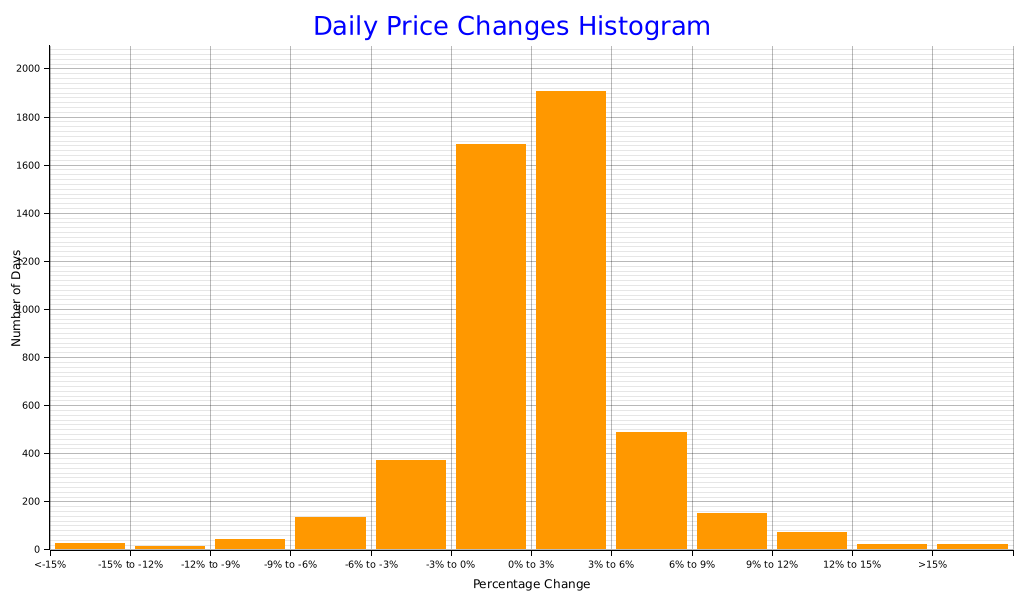
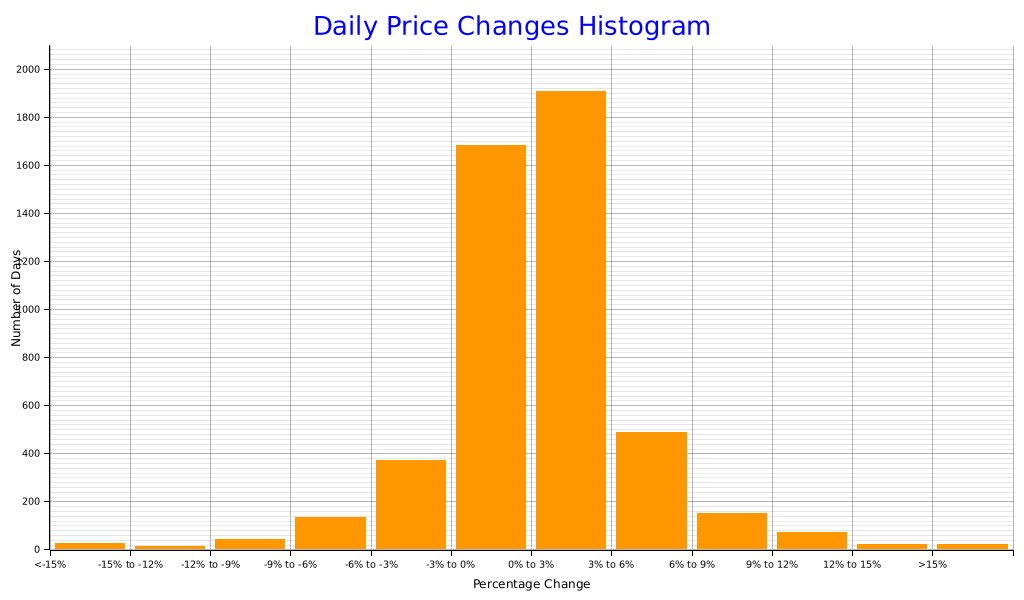
deploy: 32c38bfc33973f71076a7465fb8cd65e6d188ef2

diff --git a/index.html b/index.html
@@ -168,11 +168,11 @@
         </tr>
         <tr>
           <td>-3% to 0%</td>
-          <td>1684</td>
+          <td>1683</td>
         </tr>
         <tr>
           <td>0% to 3%</td>
-          <td>1905</td>
+          <td>1906</td>
         </tr>
         <tr>
           <td>3% to 6%</td>
@@ -225,12 +225,12 @@
             <td>105,639.77</td>
             <td>105,778.14</td>
             <td>105,083.14</td>
-            <td>105,515.37</td>
-            <td class='wma-column'>48,304.55</td>
-            <td>44.08 (0.09 %)</td>
-            <td>61,717.25 (140.9 %)</td>
+            <td>105,702.45</td>
+            <td class='wma-column'>48,304.69</td>
+            <td>44.23 (0.09 %)</td>
+            <td>61,904.33 (141.3 %)</td>
             <td>695.00 (0.6 %)</td>
-            <td>-100.25 (0.0 %)</td>
+            <td>86.82 (0.0 %)</td>
           </tr>
           <tr>
             <td>2025-06-07</td>
